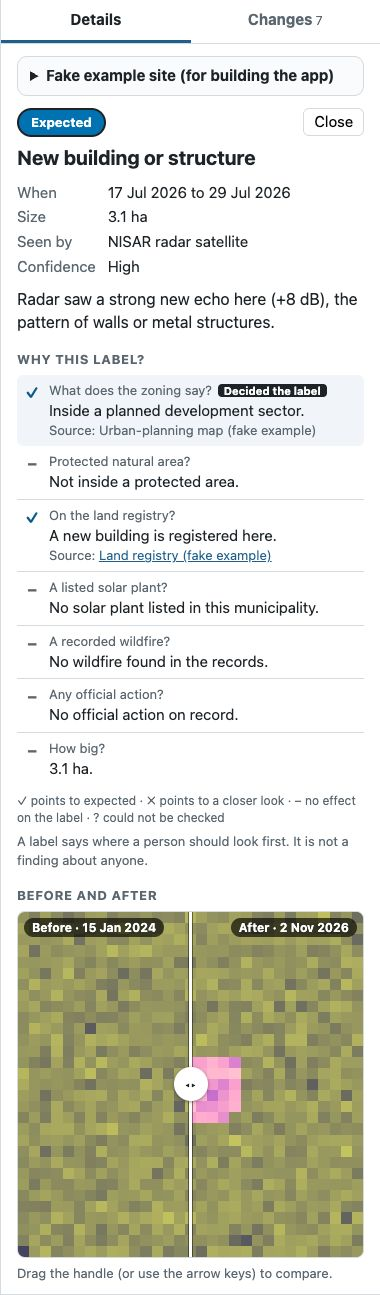
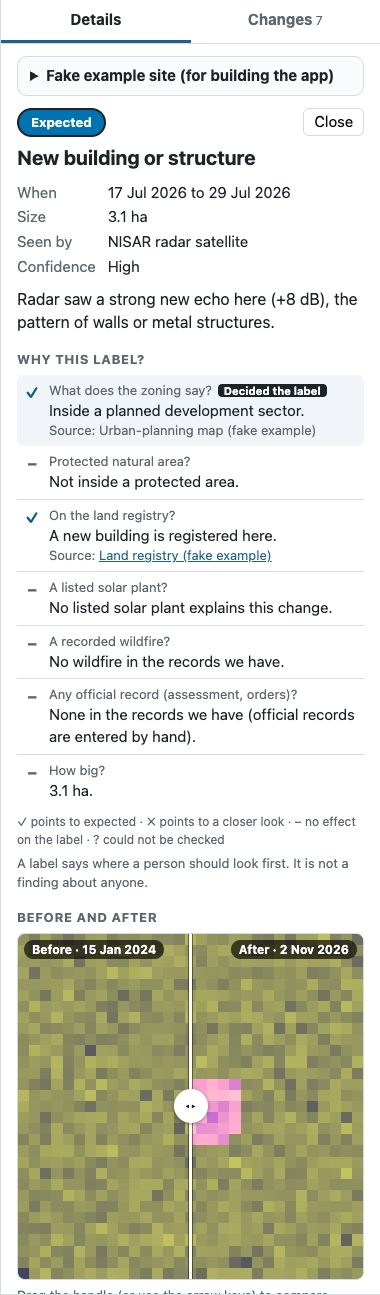
Checklist: route failed lookups by the reason text, honest defaults (review on #69)
Failed lookups carry the service's own name in source, so match text + source
and add the wildfire map. Defaults no longer claim checks that never run
(official records, wildfire, solar). Official row renamed.

Claude-Session: https://claude.ai/code/session_012PV2vkwKBBdHdxMc6qzdLa

Changed region(s): [[0.0289, 0.4633, 0.9553, 1.0], [0.8105, 0.5251, 0.9263, 0.556], [0.7237, 0.8649, 0.7526, 0.8958]]

diff --git a/app/js/checklist.js b/app/js/checklist.js
@@ -7,14 +7,15 @@ const QUESTIONS = [
   { key: "protected", q: "Protected natural area?", codes: ["protected_area", "protected_buffer"], none: "Not inside a protected area.", spain: true },
   { key: "zoning", q: "What does the zoning say?", codes: ["zoning_non_buildable", "zoning_urban", "planned_sector"], none: "Nothing in the zoning changes the label.", spain: true },
   { key: "cadastre", q: "On the land registry?", codes: ["cadastre_building_found", "no_record_found"], none: "No new building on record.", spain: true },
-  { key: "solar", q: "A listed solar plant?", codes: ["solar_plant_listed", "solar_plant_other"], none: "No solar plant listed in this municipality.", spain: true },
-  { key: "fire", q: "A recorded wildfire?", codes: ["fire_recorded"], none: "No wildfire found in the records." },
-  { key: "official", q: "Any official action?", codes: ["assessment_missing", "official_stop_order", "official_investigation", "official_action"], none: "No official action on record." },
+  { key: "solar", q: "A listed solar plant?", codes: ["solar_plant_listed", "solar_plant_other"], none: "No listed solar plant explains this change.", spain: true },
+  { key: "fire", q: "A recorded wildfire?", codes: ["fire_recorded"], none: "No wildfire in the records we have." },
+  { key: "official", q: "Any official record (assessment, orders)?", codes: ["assessment_missing", "official_stop_order", "official_investigation", "official_action"], none: "None in the records we have (official records are entered by hand)." },
   { key: "size", q: "How big?", codes: ["small_area", "size_only"], none: null },
 ];
 
-// `records_unavailable` reasons name the service in `source` ("Land registry", …): send each to its question.
-const UNAVAILABLE = [["protected", "protected"], ["land registry", "cadastre"], ["urban-planning", "zoning"], ["solar", "solar"]];
+// `records_unavailable` reasons: verdict.py writes "The <service> could not be checked…" ("land registry", …),
+// while `source` is the service's own name, so match on both. Each goes to its question's row.
+const UNAVAILABLE = [["protected", "protected"], ["land registry", "cadastre"], ["urban-planning", "zoning"], ["solar", "solar"], ["wildfire", "fire"]];
 
 const MARKS = {
   lowers: { mark: "✓", text: "Points to expected" },
@@ -25,8 +26,8 @@ const MARKS = {
 
 const questionFor = (r) => {
   if (r.code === "records_unavailable") {
-    const src = String(r.source ?? "").toLowerCase();
-    return UNAVAILABLE.find(([word]) => src.includes(word))?.[1] ?? null;
+    const said = `${r.text ?? ""} ${r.source ?? ""}`.toLowerCase();
+    return UNAVAILABLE.find(([word]) => said.includes(word))?.[1] ?? null;
   }
   return QUESTIONS.find((q) => q.codes.includes(r.code))?.key ?? null;
 };
